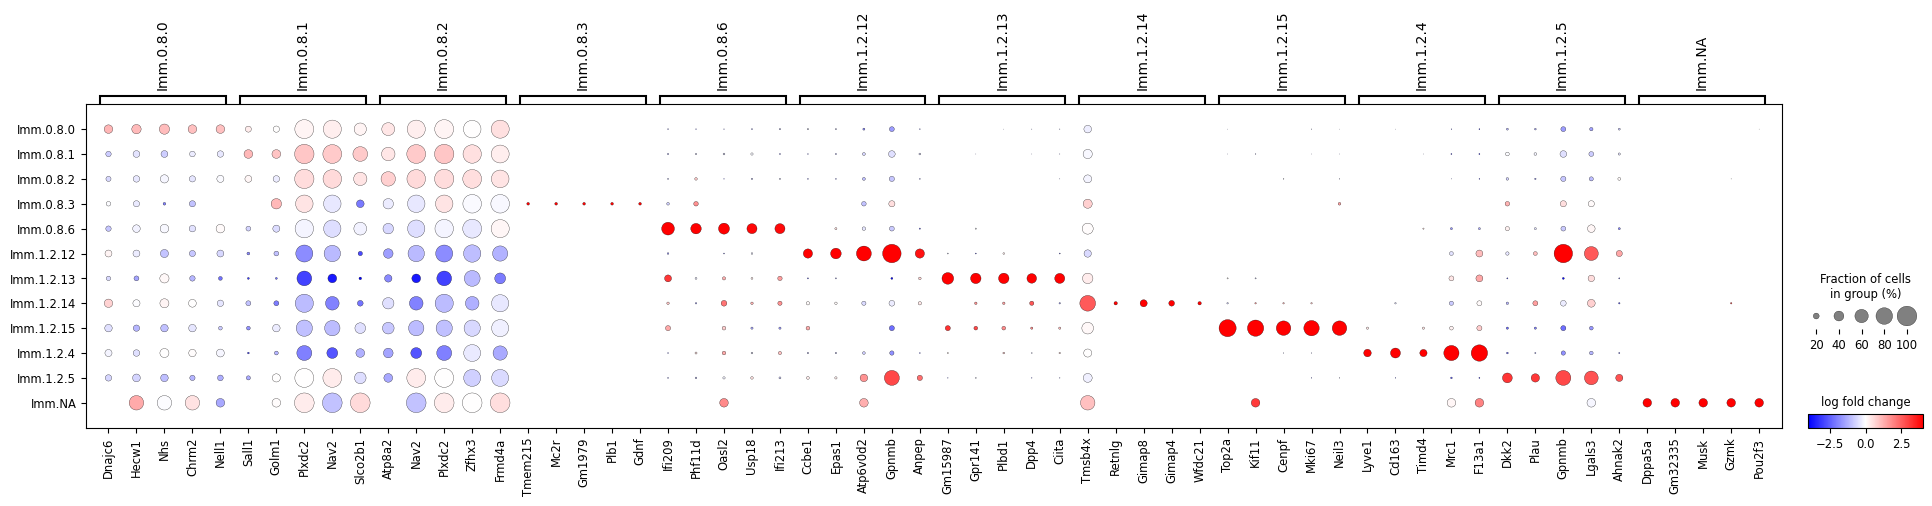
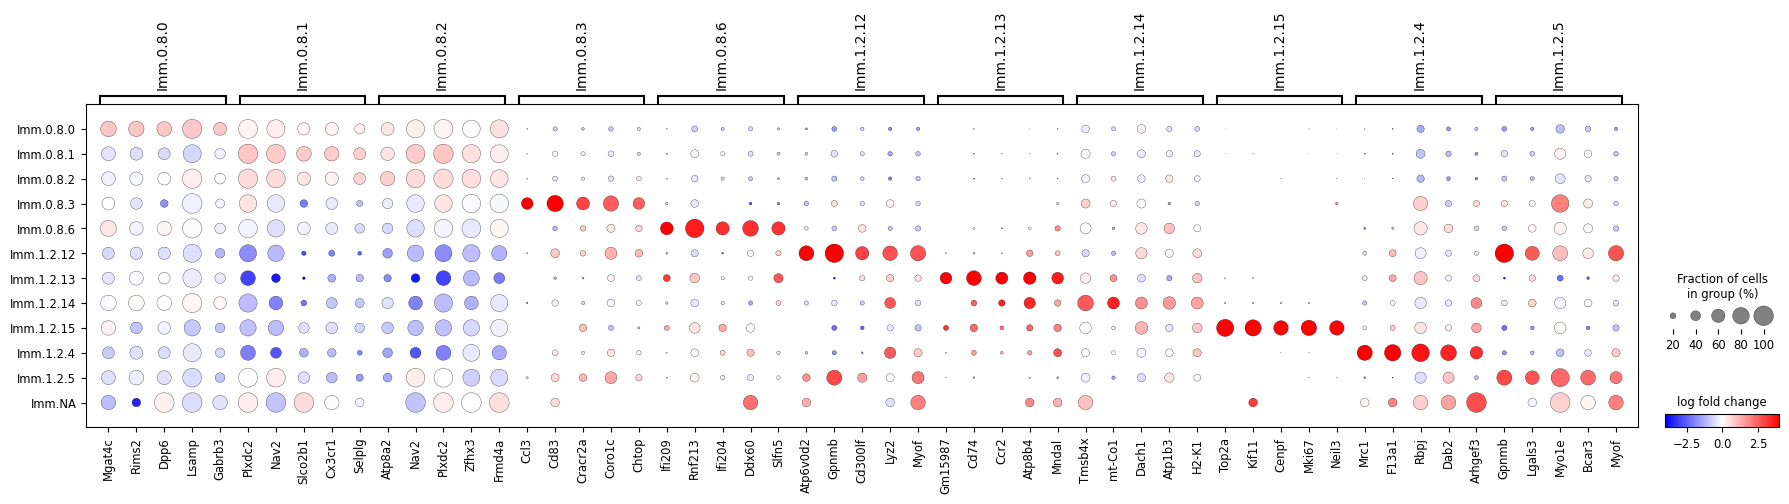
add new update on immune analysis

diff --git a/src/a_immune.py b/src/a_immune.py
@@ -40,10 +40,22 @@ for i in range(len(gene_names.columns)): #for loop to take the nr of columns
         'pvals_adj': pvals_adj.iloc[:, i].values,
         'pts': pts_reindexed.values}, 
         index=gene_reindex.values)
-    one_sorted_df = cluster_df.sort_values(by='logfoldchange', ascending=False)
+    
+    mask_pts = (cluster_df['pts'] >= 0.5) 
+    filtered_df = cluster_df[mask_pts]
+    
+    one_sorted_df = filtered_df.sort_values(by='logfoldchange', ascending=False)
+
 
     cluster_names = gene_names.columns[i]
     cluster_dfs[cluster_names] = one_sorted_df    # append it to the dictionary
+
+# Delete the NA cluster
+
+clusters_to_delete = [cluster for cluster in cluster_dfs if cluster.endswith("NA")]
+
+for cluster in clusters_to_delete:
+    del cluster_dfs[cluster]
 
 # #Print
 # for cluster, df in cluster_dfs.items():
@@ -54,8 +66,8 @@ for i in range(len(gene_names.columns)): #for loop to take the nr of columns
 top_genes_cluster = {}
 
 for cluster, df in cluster_dfs.items():
-    mask = df['pvals_adj'] < 0.05
-    filtered_df = df[mask]
+    mask_pval = df['pvals_adj'] < 0.05
+    filtered_df = df[mask_pval]
     top_genes = filtered_df.head(5)
     
     if (top_genes['logfoldchange'] < 0).any(): # top 5 genes
@@ -91,10 +103,10 @@ for cluster, df in cluster_dfs.items():
         top_genes_cluster[cluster] = top_genes # Assigns the DataFrame (top_genes) to the key cluster in the dictionary top_genes_per_cluster.
 
 
-# # print 
-# for cluster, df in top_genes_cluster.items():
-#     print(f"\nTop genes in {cluster}:")
-#     print(df)
+# print 
+for cluster, df in top_genes_cluster.items():
+    print(f"\nTop genes in {cluster}:")
+    print(df)
 
 
 # Create a dictionary to hold top gene names for each cluster
@@ -136,7 +148,6 @@ dotplot1 = sc.pl.rank_genes_groups_dotplot(
     vmin=-4,
     vmax=4,
     values_to_plot='logfoldchanges',
-    #min_logfoldchange=1,
     colorbar_title='log fold change',
     use_raw=False,
     dendrogram=False,
@@ -145,9 +156,9 @@ dotplot1 = sc.pl.rank_genes_groups_dotplot(
 
 output_path1 = os.path.join(dotplots, "dotplot_1.png")
 dotplot1.savefig(output_path1, bbox_inches="tight")
-plt.close()  # Close the current figure to avoid overlap
+# plt.close()  # Close the current figure to avoid overlap
+plt.close()
 
-
-# lista de labels do eixo do x e quando tiver essa lista substituir por uma nova
-# apagar o NA
+# lista de labels do eixo do x e quando tiver essa lista substituir por uma nova - not done
+# apagar o NA - done
 # min de 30%, 40%, 50%

diff --git a/src/old_code.py b/src/old_code.py
@@ -110,3 +110,13 @@
 #     return_fig=True                
 # )
 
+
+#Deleting NA cluster 
+# remove_cluster = []
+
+# for cluster in cluster_dfs:
+#     if cluster.endswith("NA"):
+#         remove_cluster.append(cluster)
+
+# for cluster in remove_cluster:
+#     del cluster_dfs[cluster]
